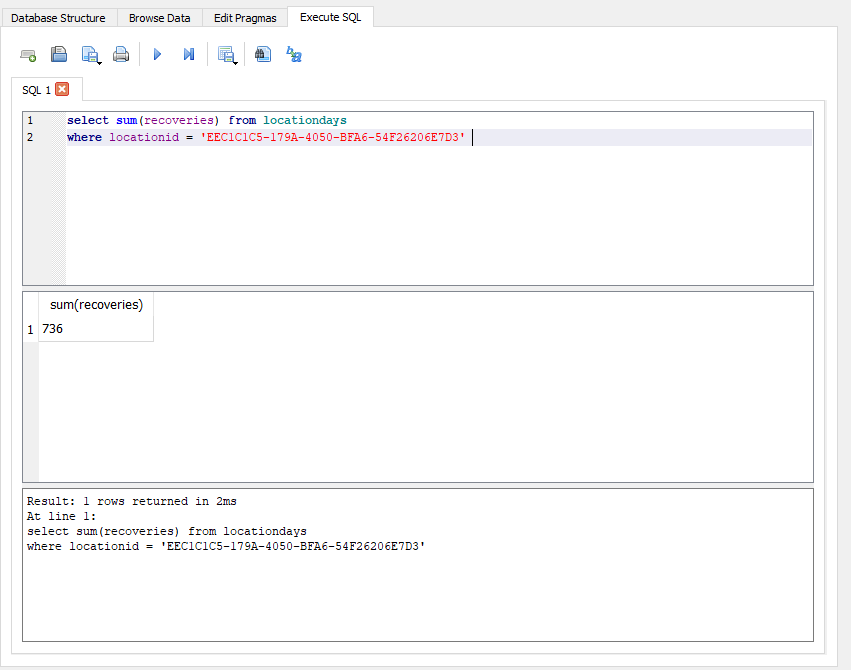
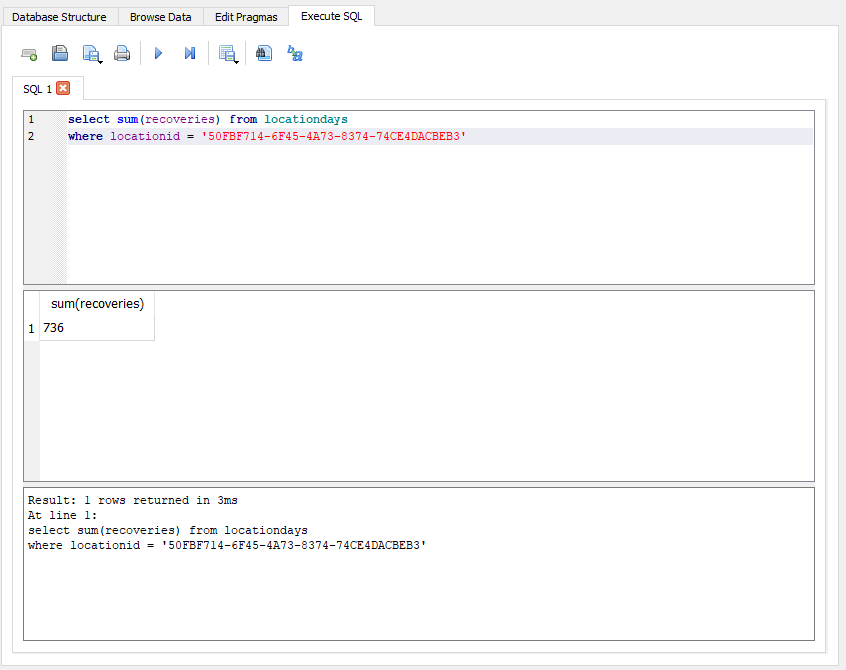
Update readme

Changed region(s): [[0.0, 0.0, 0.9835, 1.0]]

diff --git a/README.md b/README.md
@@ -17,12 +17,14 @@ Use the [DB Browser For SQLite](https://sqlitebrowser.org/) to open the database
 
 ![Database Structure](Images/DBStructure.png)
 
-The `LocationDays` table contains `LocationId`, `DateOfCount`, `Deaths`, `Recoveries`, and `NewCases`. The location "EEC1C1C5-179A-4050-BFA6-54F26206E7D3" represents anywhere in Victoria, Australia. To summarise all recoveries, run this query:
+The `LocationDays` table contains `LocationId`, `DateOfCount`, `Deaths`, `Recoveries`, and `NewCases`. The location "50FBF714-6F45-4A73-8374-74CE4DACBEB3" represents anywhere in Victoria, Australia. To summarise all recoveries, run this query:
 
 ```sql
 select sum(recoveries) from locationdays 
-where locationid = 'EEC1C1C5-179A-4050-BFA6-54F26206E7D3' 
+where locationid = '50FBF714-6F45-4A73-8374-74CE4DACBEB3' 
 ```
+
+More examples will be added here.
 
 ![Summary Query](Images/SummaryQuery.png)
 
